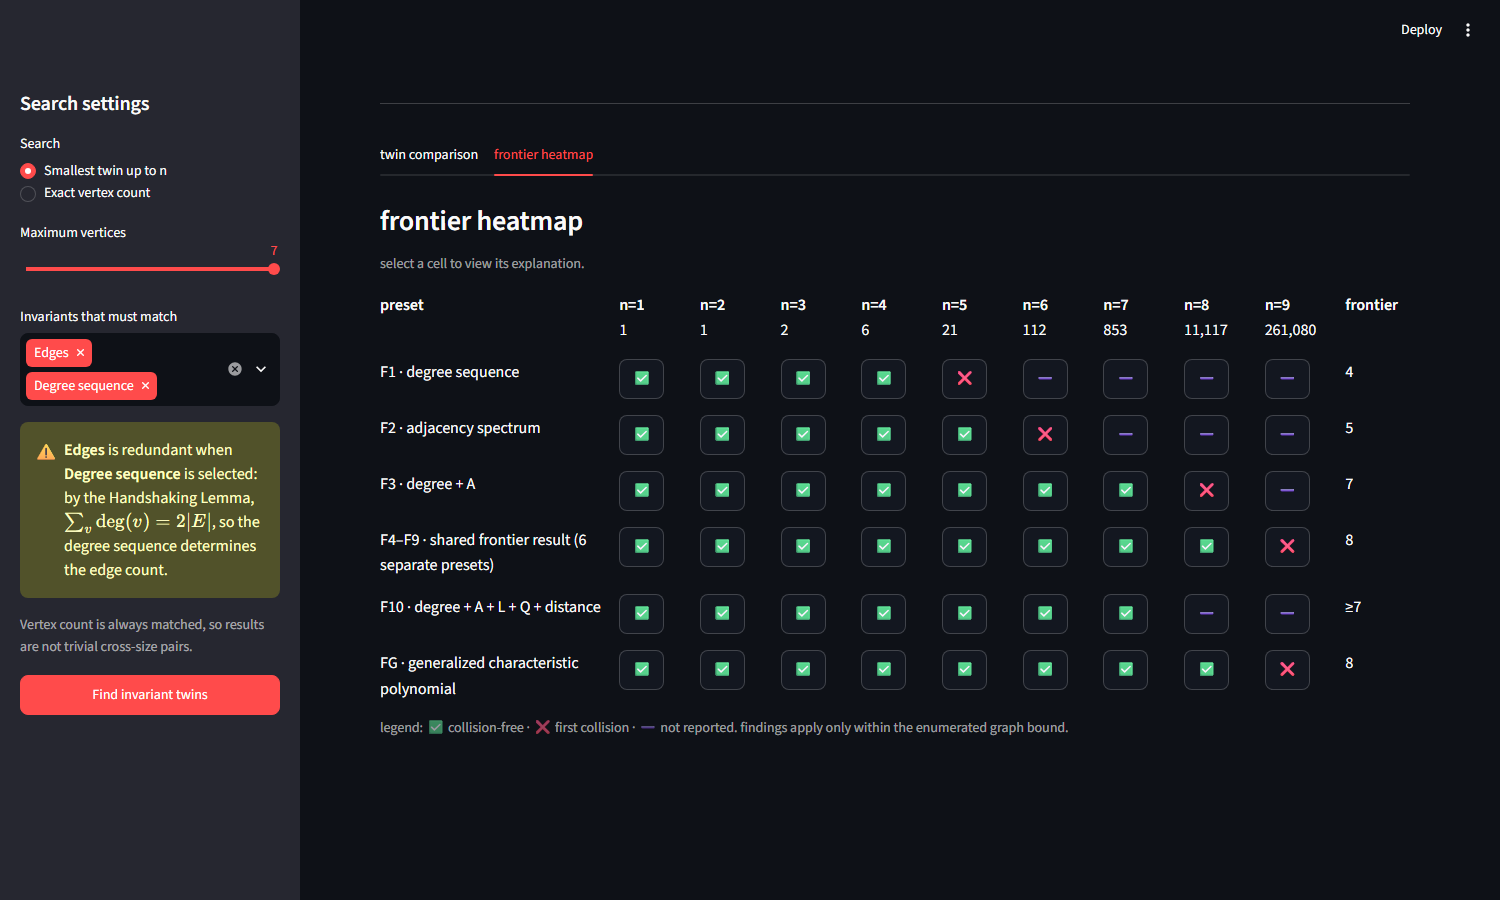
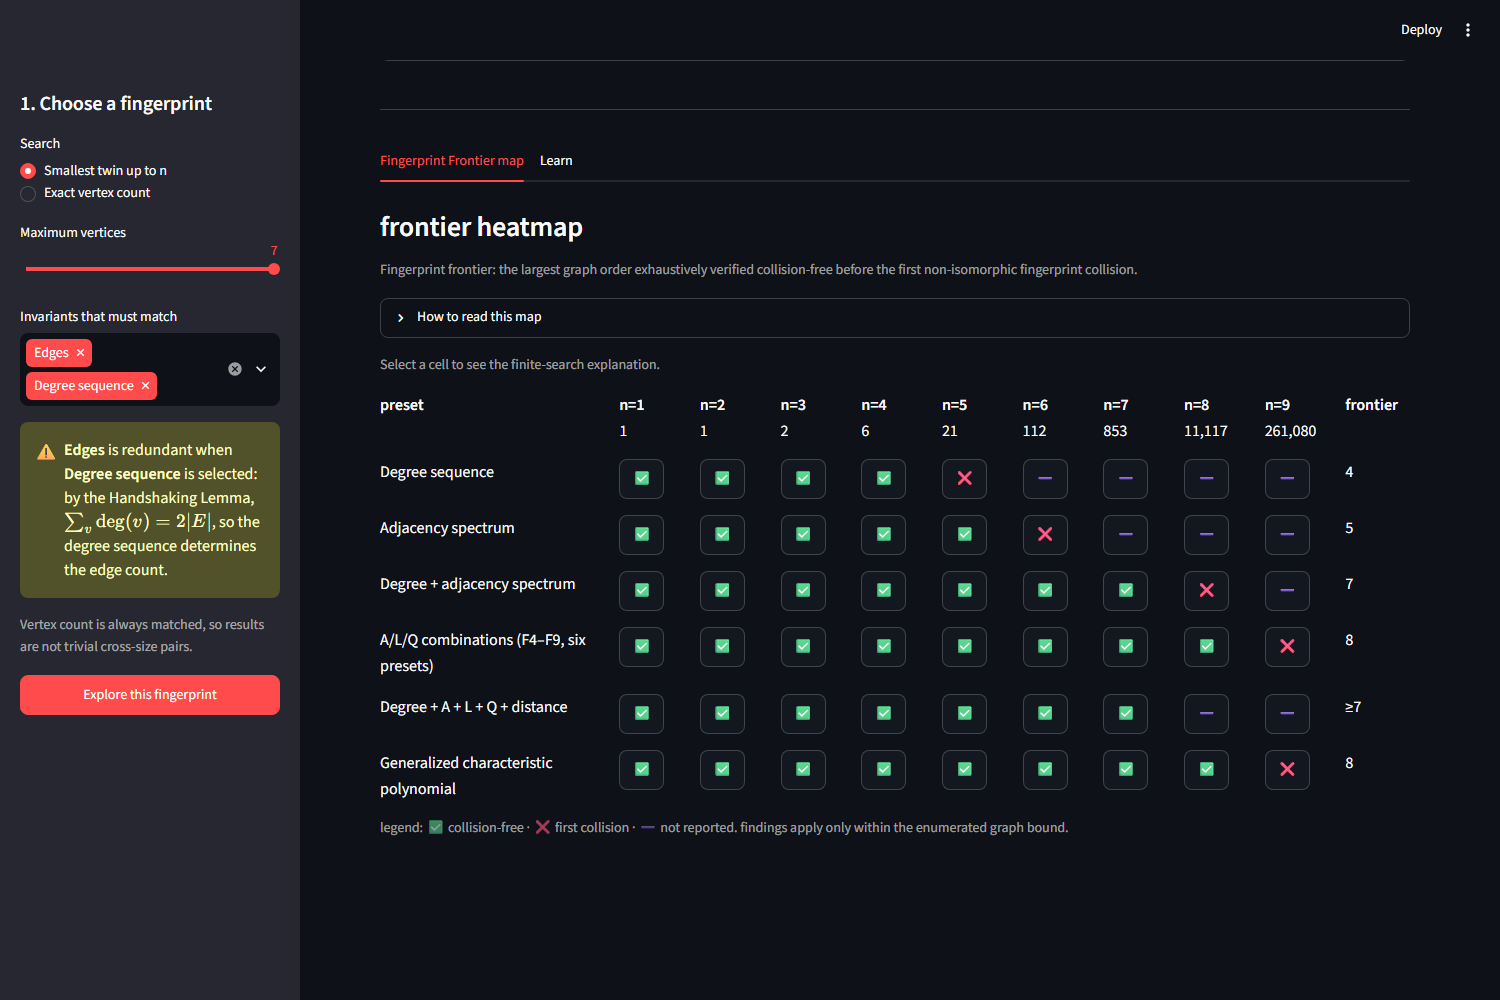
Improve onboarding and research UX

diff --git a/app.py b/app.py
@@ -11,13 +11,15 @@ from invariant_twins.visualization import display_value, graph_to_svg
 from invariant_twins.graph_sources import detect_geng, iter_connected_graphs
 from invariant_twins.collision_search import graph6, search_first_fingerprint_collision
 from invariant_twins.reporting import research_report
-from invariant_twins import twin_view, frontier_view
+from invariant_twins import twin_view, frontier_view, learn_view
 from invariant_twins.frontier import INVARIANT_REGISTRY, PRESETS, VERIFIED_FRONTIER_RESULTS, compute_frontier
+from invariant_twins.ui_content import HIGHER_ORDER_MESSAGE, preset_label
 
 
 st.set_page_config(page_title="Invariant Twins", page_icon="🧬", layout="wide")
-st.title("🧬 Invariant Twins")
-st.caption("How many graph invariants does it take to identify a graph?")
+st.title("Can a few graph properties uniquely identify a graph?")
+st.caption("These two graphs are different, but the selected fingerprint cannot tell them apart.")
+st.caption("A research-oriented laboratory for exact finite graph-invariant experiments.")
 
 
 @st.cache_data(show_spinner=False)
@@ -70,7 +72,7 @@ def render_graph_svg(graph: nx.Graph, seed: int, title: str) -> None:
 
 
 with st.sidebar:
-    st.header("Search settings")
+    st.header("1. Choose a fingerprint")
     mode = st.radio("Search", ["Smallest twin up to n", "Exact vertex count"], index=0)
     max_n = st.slider("Maximum vertices", 3, 7, 7)
     exact_n = st.slider("Exact vertices", 3, max_n, max_n) if mode == "Exact vertex count" else None
@@ -78,8 +80,13 @@ with st.sidebar:
     for notice in invariant_redundancies(selected):
         st.warning(notice, icon="⚠")
     st.caption("Vertex count is always matched, so results are not trivial cross-size pairs.")
-    find_clicked = st.button("Find invariant twins", type="primary", width="stretch")
+    find_clicked = st.button("Explore this fingerprint", type="primary", width="stretch")
 
+st.markdown("### Start with a verified collision")
+twin_view.render()
+st.markdown("---")
+st.markdown("## Explore a fingerprint")
+st.caption("1. Choose a fingerprint · 2. See where it first fails · 3. Inspect the collision")
 st.markdown("Choose a set of invariants. The app searches the Graph Atlas for the smallest pair of **non-isomorphic connected graphs** that share all selected values.")
 if not selected:
     st.info("Select at least one invariant to make the experiment meaningful.")
@@ -95,6 +102,7 @@ if selected_for_result and result is None:
     st.success("No twin pair was found in the selected search range.")
     st.caption("That does not prove the invariant set identifies all graphs—only that no collision appeared in this finite atlas search.")
 elif result:
+    st.markdown("### 3. Inspect the collision")
     (id_a, graph_a, values_a), (id_b, graph_b, values_b) = result
     st.success(f"Twin pair found on {graph_a.number_of_nodes()} vertices: Atlas G{id_a} and G{id_b}")
     column_a, column_b = st.columns(2)
@@ -121,7 +129,7 @@ elif result:
     st.caption("Finite search note: this result is a concrete witness inside the Graph Atlas (connected graphs, up to 7 vertices). It is not a proof about graphs of arbitrary size.")
 
 st.markdown("---")
-st.markdown("## Research mode\n### Minimum separating invariant set")
+st.markdown("## Advanced research tools\n### Minimum separating invariant set")
 st.caption("Exact exhaustive subset search over the implemented invariant family; graph order is a free partitioning key.")
 st.caption("Minimum separating set within the implemented invariant family and the finite Graph Atlas search domain.")
 compute_minimum = st.button("Compute minimum separating set")
@@ -178,7 +186,7 @@ st.info("Exhaustively verified collision-free through n = 7 within the NetworkX 
 geng_configured_path = st.text_input("geng executable path (optional)", value=detect_geng() or "")
 geng_path = detect_geng(geng_configured_path or None)
 if geng_path is None:
-    st.caption("Exhaustive search beyond 7 vertices requires nauty/Traces geng.")
+    st.info(HIGHER_ORDER_MESSAGE)
     with st.expander("How to enable exhaustive search beyond n = 7"):
         st.markdown("Install nauty/Traces and make `geng` (or `geng.exe`) available on your PATH, then restart Streamlit. The app never downloads executables automatically.")
 else:
@@ -210,10 +218,11 @@ else:
             st.download_button("Download collision report", research_report(f"Connected graphs through {maximum_collision_order}", collision_result.graphs_examined, [], collision), file_name="fingerprint-collision.md", mime="text/markdown")
 
 st.markdown("### Fingerprint Frontier")
-st.caption("How far does your graph fingerprint remain unique? All displayed results are finite exhaustive computations, not statements about arbitrary graph order.")
+st.caption("Fingerprint frontier: the largest graph order exhaustively verified collision-free before the first non-isomorphic fingerprint collision. All displayed results are finite exhaustive computations, not statements about arbitrary graph order.")
 comparison_rows = [
     {
-        "Fingerprint": preset,
+        "Fingerprint": preset_label(preset),
+        "Preset ID": preset,
         "Number of invariants": len(PRESETS[preset]),
         "Exhaustive through": f"n = {result['frontier']}",
         "First collision": f"n = {result['first_collision_order']}" if result["first_collision_order"] else "Not found in searched domain",
@@ -286,8 +295,8 @@ with st.expander("What is the math behind this?"):
     st.markdown("For your selected invariant set **S**, the app groups graphs by the same fingerprint. A twin pair is a collision where `F_S(G) = F_S(H)` but `G` and `H` are not isomorphic.")
 
 st.markdown("---")
-twin_tab, heatmap_tab = st.tabs(["twin comparison", "frontier heatmap"])
-with twin_tab:
-    twin_view.render()
-with heatmap_tab:
+frontier_tab, learn_tab = st.tabs(["Fingerprint Frontier map", "Learn"])
+with frontier_tab:
     frontier_view.render()
+with learn_tab:
+    learn_view.render()

diff --git a/src/invariant_twins/ui_content.py b/src/invariant_twins/ui_content.py
@@ -1,0 +1,36 @@
+"""Small, presentation-only copy helpers for the Streamlit interface."""
+
+PRESET_LABELS = {
+    "F1": "Degree sequence",
+    "F2": "Adjacency spectrum",
+    "F3": "Degree + adjacency spectrum",
+    "F4": "Adjacency + Laplacian spectrum",
+    "F5": "Adjacency + signless Laplacian spectrum",
+    "F6": "Degree + adjacency + Laplacian spectrum",
+    "F7": "Degree + adjacency + signless Laplacian spectrum",
+    "F8": "Adjacency + Laplacian + signless Laplacian",
+    "F9": "Degree + A + L + Q",
+    "F10": "Degree + A + L + Q + distance",
+    "FG": "Generalized characteristic polynomial",
+}
+
+HIGHER_ORDER_MESSAGE = "Higher-order exhaustive searches require nauty/geng. Verified higher-order results are still available in the Frontier view and research archive."
+
+LEARN_SECTIONS = (
+    ("What is an invariant?", "A graph invariant is a property that stays the same when vertex names change. Examples include a degree sequence and an exact characteristic polynomial."),
+    ("What is a fingerprint?", "A fingerprint is a chosen list of invariants. It is useful when it separates graphs, but it is not automatically a complete description of a graph."),
+    ("What is a collision?", "A collision occurs when non-isomorphic graphs share every invariant in a chosen fingerprint. The graphs are different even though that fingerprint cannot tell them apart."),
+    ("Degree sequence", "The degree sequence lists how many edges touch each vertex, sorted from largest to smallest. It is a compact structural summary, not a complete graph description."),
+    ("Adjacency spectrum", "The adjacency spectrum is represented here by exact adjacency characteristic-polynomial coefficients. It summarizes the adjacency matrix without rounding eigenvalues."),
+    ("Laplacian spectrum", "The Laplacian spectrum records connectivity and degree information through the Laplacian matrix. This app compares its exact characteristic polynomial."),
+    ("Signless Laplacian spectrum", "The signless Laplacian spectrum uses degree plus adjacency information. It is another exact matrix-based invariant, with its own collisions."),
+    ("Distance spectrum", "The distance spectrum comes from shortest-path distances between every pair of vertices. It can add information that adjacency-based invariants miss."),
+    ("Generalized characteristic polynomial", "This exact polynomial combines adjacency and degree information in one bivariate invariant. Its coefficients are compared exactly, not numerically."),
+    ("Graph isomorphism", "Two graphs are isomorphic when one can be relabeled to become the other. NetworkX checks this exactly for every reported collision witness."),
+    ("What does exhaustive finite verification mean?", "Every connected unlabeled graph in a stated finite range was checked. This is strong reproducible evidence for that range, not a theorem about graphs of every size."),
+)
+
+
+def preset_label(preset: str) -> str:
+    """Return a reader-facing name while retaining the reproducibility ID."""
+    return PRESET_LABELS.get(preset, preset)

diff --git a/src/invariant_twins/twin_view.py b/src/invariant_twins/twin_view.py
@@ -14,6 +14,8 @@ H_EDGES = {(0, 5), (1, 5), (2, 6), (2, 7), (3, 6), (3, 7), (4, 7), (5, 7)}
 CHARPOLY = (1, 0, -8, 0, 14, 0, -4, 0, 0)
 G_DIAMETER_PATH = (5, 0, 6, 1, 7, 3)
 H_DIAMETER_PATH = (0, 5, 7, 2, 6)
+G_POSITIONS = {5: (-1.0, 0.8), 0: (-0.65, 0.5), 6: (-0.2, 0.35), 1: (0.2, 0.7), 2: (0.2, 0.0), 7: (0.65, 0.35), 3: (1.05, 0.7), 4: (1.05, 0.0)}
+H_POSITIONS = {0: (-1.0, 0.7), 1: (-1.0, 0.0), 5: (-0.55, 0.35), 7: (0.0, 0.35), 4: (0.4, 0.75), 2: (0.4, 0.0), 6: (0.8, 0.5), 3: (0.8, -0.15)}
 
 
 def witnesses() -> tuple[nx.Graph, nx.Graph]:
@@ -35,18 +37,18 @@ def render() -> None:
     """Render the twin-comparison tab."""
     g, h = witnesses()
     st.subheader("twin comparison")
-    st.caption("same fingerprint, connected non-isomorphic graphs.")
+    st.info("**Verified collision example.** These two graphs are different, but the selected fingerprint cannot tell them apart. They have the same degree sequence and the same exact adjacency characteristic polynomial; NetworkX confirms they are not isomorphic.")
     show = st.session_state.get("twin_show_difference", False)
-    if st.button("hide difference" if show else "show difference", key="twin_difference"):
+    if st.button("Hide the separating property" if show else "Show a separating property", key="twin_difference"):
         st.session_state.twin_show_difference = not show
         st.rerun()
 
     left, right = st.columns(2)
     graphs = (
-        (left, g, "G", G_GRAPH6, 1201, G_DIAMETER_PATH),
-        (right, h, "H", H_GRAPH6, 1202, H_DIAMETER_PATH),
+        (left, g, "G", G_GRAPH6, 1201, G_DIAMETER_PATH, G_POSITIONS),
+        (right, h, "H", H_GRAPH6, 1202, H_DIAMETER_PATH, H_POSITIONS),
     )
-    for column, graph, name, graph6, seed, path in graphs:
+    for column, graph, name, graph6, seed, path, positions in graphs:
         with column:
             st.markdown(f"#### {name}")
             labels = {node: str(graph.degree(node)) for node in graph}
@@ -57,8 +59,9 @@ def render() -> None:
                     f"{name}, degrees shown in nodes",
                     node_labels=labels,
                     highlighted_edges=_path_edges(path) if show else None,
+                    positions=positions,
                 ),
-                height=285,
+                height=320,
                 scrolling=False,
             )
             st.caption(f"graph6: {graph6}")
@@ -73,4 +76,8 @@ def render() -> None:
     if show:
         rows.append({"status": "❌ separates", "invariant": "diameter (not in fingerprint)", "G": "5", "H": "4"})
     st.dataframe(rows, width="stretch", hide_index=True)
+    if show:
+        st.error("❌ Separates this pair — diameter: G = 5, H = 4.")
+    with st.expander("What does diameter mean?"):
+        st.write("Diameter is the largest shortest-path distance between two vertices.")
     st.caption("findings apply only within the enumerated graph bound.")

diff --git a/tests/test_core.py b/tests/test_core.py
@@ -9,7 +9,7 @@ from invariant_twins.invariants import (adjacency_characteristic_polynomial, dis
 from invariant_twins.search import find_collision_witness, find_minimum_separating_sets, separates_universe
 from invariant_twins.visualization import graph_to_svg
 from invariant_twins.twin_view import (CHARPOLY, G_DIAMETER_PATH, G_EDGES, H_DIAMETER_PATH,
-                       H_EDGES, witnesses)
+                       H_EDGES, G_POSITIONS, H_POSITIONS, witnesses)
 from scripts import run_fingerprint_search as fingerprint_cli
 from scripts import run_frontier as frontier_cli
 from scripts import verify_witness
@@ -18,6 +18,7 @@ from invariant_twins.graph_sources import derive_msys2_root, detect_geng, iter_a
 from invariant_twins.frontier import (PRESETS, VERIFIED_FRONTIER_RESULTS, compute_frontier,
                       find_collision_for_order, fingerprint as frontier_fingerprint)
 from invariant_twins.frontier_view import verified_rows
+from invariant_twins.ui_content import HIGHER_ORDER_MESSAGE, LEARN_SECTIONS, preset_label
 
 
 def record(identifier, graph, **values):
@@ -46,6 +47,7 @@ def test_twin_view_graph6_witnesses_and_diameter_paths():
     assert all(other.has_edge(*edge) for edge in zip(H_DIAMETER_PATH, H_DIAMETER_PATH[1:]))
     assert len(G_DIAMETER_PATH) - 1 == nx.diameter(graph) and len(H_DIAMETER_PATH) - 1 == nx.diameter(other)
     assert not nx.is_isomorphic(graph, other)
+    assert set(G_POSITIONS) == set(graph) and set(H_POSITIONS) == set(other)
 
 
 def test_edges_is_reported_redundant_with_degree_sequence():
@@ -204,6 +206,16 @@ def test_frontier_view_matches_verified_research_metadata():
     assert rows["FG"]["frontier"] == 8 and rows["FG"]["first_collision_order"] == 9
     assert rows["F4–F9"]["frontier"] == 8 and rows["F4–F9"]["first_collision_order"] == 9
     assert rows["F10"]["frontier"] == 7 and rows["F10"]["first_collision_order"] is None
+    assert rows["F4–F9"]["label"] == "A/L/Q combinations (F4–F9, six presets)"
+
+
+def test_reader_facing_preset_labels_and_learn_content_are_available():
+    assert preset_label("F3") == "Degree + adjacency spectrum"
+    assert preset_label("FG") == "Generalized characteristic polynomial"
+    assert preset_label("unknown") == "unknown"
+    assert len(LEARN_SECTIONS) >= 10
+    assert any("collision" in text.lower() for _, text in LEARN_SECTIONS)
+    assert "nauty/geng" in HIGHER_ORDER_MESSAGE
 
 
 def test_full_family_failure_returns_nonisomorphic_collision_witness():

diff --git a/src/invariant_twins/frontier_view.py b/src/invariant_twins/frontier_view.py
@@ -6,6 +6,8 @@ from pathlib import Path
 
 import streamlit as st
 
+from .ui_content import preset_label
+
 COUNTS = [1, 1, 2, 6, 21, 112, 853, 11117, 261080]
 _ROOT = Path(__file__).resolve().parents[2]
 
@@ -15,12 +17,12 @@ def verified_rows() -> list[dict[str, object]]:
     records = json.loads((_ROOT / "research" / "index.json").read_text(encoding="utf-8"))["experiments"]
     by_preset = {record["preset"]: record for record in records}
     return [
-        {**by_preset["F1"], "label": "F1 · degree sequence"},
-        {**by_preset["F2"], "label": "F2 · adjacency spectrum"},
-        {**by_preset["F3"], "label": "F3 · degree + A"},
-        {"preset": "F4–F9", "label": "F4–F9 · shared frontier result (6 separate presets)", "frontier": by_preset["F4"]["frontier"], "first_collision_order": by_preset["F4"]["first_collision_order"]},
-        {**by_preset["F10"], "label": "F10 · degree + A + L + Q + distance"},
-        {**by_preset["FG"], "label": "FG · generalized characteristic polynomial"},
+        {**by_preset["F1"], "label": preset_label("F1")},
+        {**by_preset["F2"], "label": preset_label("F2")},
+        {**by_preset["F3"], "label": preset_label("F3")},
+        {"preset": "F4–F9", "label": "A/L/Q combinations (F4–F9, six presets)", "frontier": by_preset["F4"]["frontier"], "first_collision_order": by_preset["F4"]["first_collision_order"]},
+        {**by_preset["F10"], "label": preset_label("F10")},
+        {**by_preset["FG"], "label": preset_label("FG")},
     ]
 
 
@@ -41,7 +43,10 @@ def _message(record: dict[str, object], order: int) -> str:
 def render() -> None:
     """Render selectable status cells without relying on color alone."""
     st.subheader("frontier heatmap")
-    st.caption("select a cell to view its explanation.")
+    st.caption("Fingerprint frontier: the largest graph order exhaustively verified collision-free before the first non-isomorphic fingerprint collision.")
+    with st.expander("How to read this map"):
+        st.markdown("- Each row is a graph fingerprint.\n- Each column is graph order n.\n- ✅ means all graphs at that order were distinguished.\n- ❌ marks the first fingerprint collision.\n- ➖ means not reported in this study.")
+    st.caption("Select a cell to see the finite-search explanation.")
     header = st.columns([3] + [1] * 9 + [1])
     header[0].markdown("**preset**")
     for index, count in enumerate(COUNTS, 1):

diff --git a/src/invariant_twins/visualization.py b/src/invariant_twins/visualization.py
@@ -10,9 +10,9 @@ SVG_HEIGHT = 280
 SVG_PADDING = 32
 
 
-def _svg_positions(graph: nx.Graph, seed: int) -> dict[object, tuple[float, float]]:
+def _svg_positions(graph: nx.Graph, seed: int, positions: dict[object, tuple[float, float]] | None = None) -> dict[object, tuple[float, float]]:
     """Scale a seeded NetworkX layout into a compact SVG viewBox."""
-    positions = nx.spring_layout(graph, seed=seed)
+    positions = positions or nx.spring_layout(graph, seed=seed)
     if len(positions) == 1:
         node = next(iter(positions))
         return {node: (SVG_WIDTH / 2, SVG_HEIGHT / 2)}
@@ -27,9 +27,9 @@ def _svg_positions(graph: nx.Graph, seed: int) -> dict[object, tuple[float, floa
     return {node: (x_offset + scale * x, y_offset - scale * y) for node, (x, y) in positions.items()}
 
 
-def graph_to_svg(graph: nx.Graph, seed: int = 0, title: str | None = None, *, node_labels: dict[object, str] | None = None, highlighted_edges: set[frozenset[object]] | None = None) -> str:
+def graph_to_svg(graph: nx.Graph, seed: int = 0, title: str | None = None, *, node_labels: dict[object, str] | None = None, highlighted_edges: set[frozenset[object]] | None = None, positions: dict[object, tuple[float, float]] | None = None) -> str:
     """Return an accessible inline SVG drawing with no image background or axes."""
-    positions = _svg_positions(graph, seed)
+    positions = _svg_positions(graph, seed, positions)
     description = title or f"Graph, {graph.number_of_nodes()} vertices, {graph.number_of_edges()} edges"
     title_id = f"graph-title-{seed}"
     highlighted_edges = highlighted_edges or set()
@@ -48,7 +48,7 @@ def graph_to_svg(graph: nx.Graph, seed: int = 0, title: str | None = None, *, no
         f'width="100%" height="280" role="img" aria-labelledby="{title_id}">'
         f'<title id="{title_id}">' + escape(description) + '</title>'
         '<style>'
-        'line { stroke: #8b95a5; stroke-width: 1.4; stroke-linecap: round; } '
+        'line { stroke: #aeb7c4; stroke-width: 1.8; stroke-linecap: round; } '
         'line.highlight { stroke: #f5c542; stroke-width: 5; } '
         'circle { fill: #4776a8; stroke: #b9d4ef; stroke-width: 1.2; } '
         'text { fill: #ffffff; font: 600 13px system-ui, sans-serif; text-anchor: middle; pointer-events: none; }'

diff --git a/src/invariant_twins/learn_view.py b/src/invariant_twins/learn_view.py
@@ -1,0 +1,16 @@
+"""Lightweight educational view, kept separate from research calculations."""
+
+import streamlit as st
+
+from .ui_content import LEARN_SECTIONS
+
+
+def render() -> None:
+    """Render short collapsed explanations for first-time visitors."""
+    st.subheader("Learn")
+    st.caption("A short guide to the ideas behind the experiments.")
+    for heading, text in LEARN_SECTIONS:
+        with st.expander(heading):
+            st.write(text)
+    st.markdown("**Fingerprint Frontier** is the largest graph order exhaustively verified collision-free before the first non-isomorphic fingerprint collision.")
+    st.markdown("For deeper mathematics, see [the background notes](docs/background.md).")
